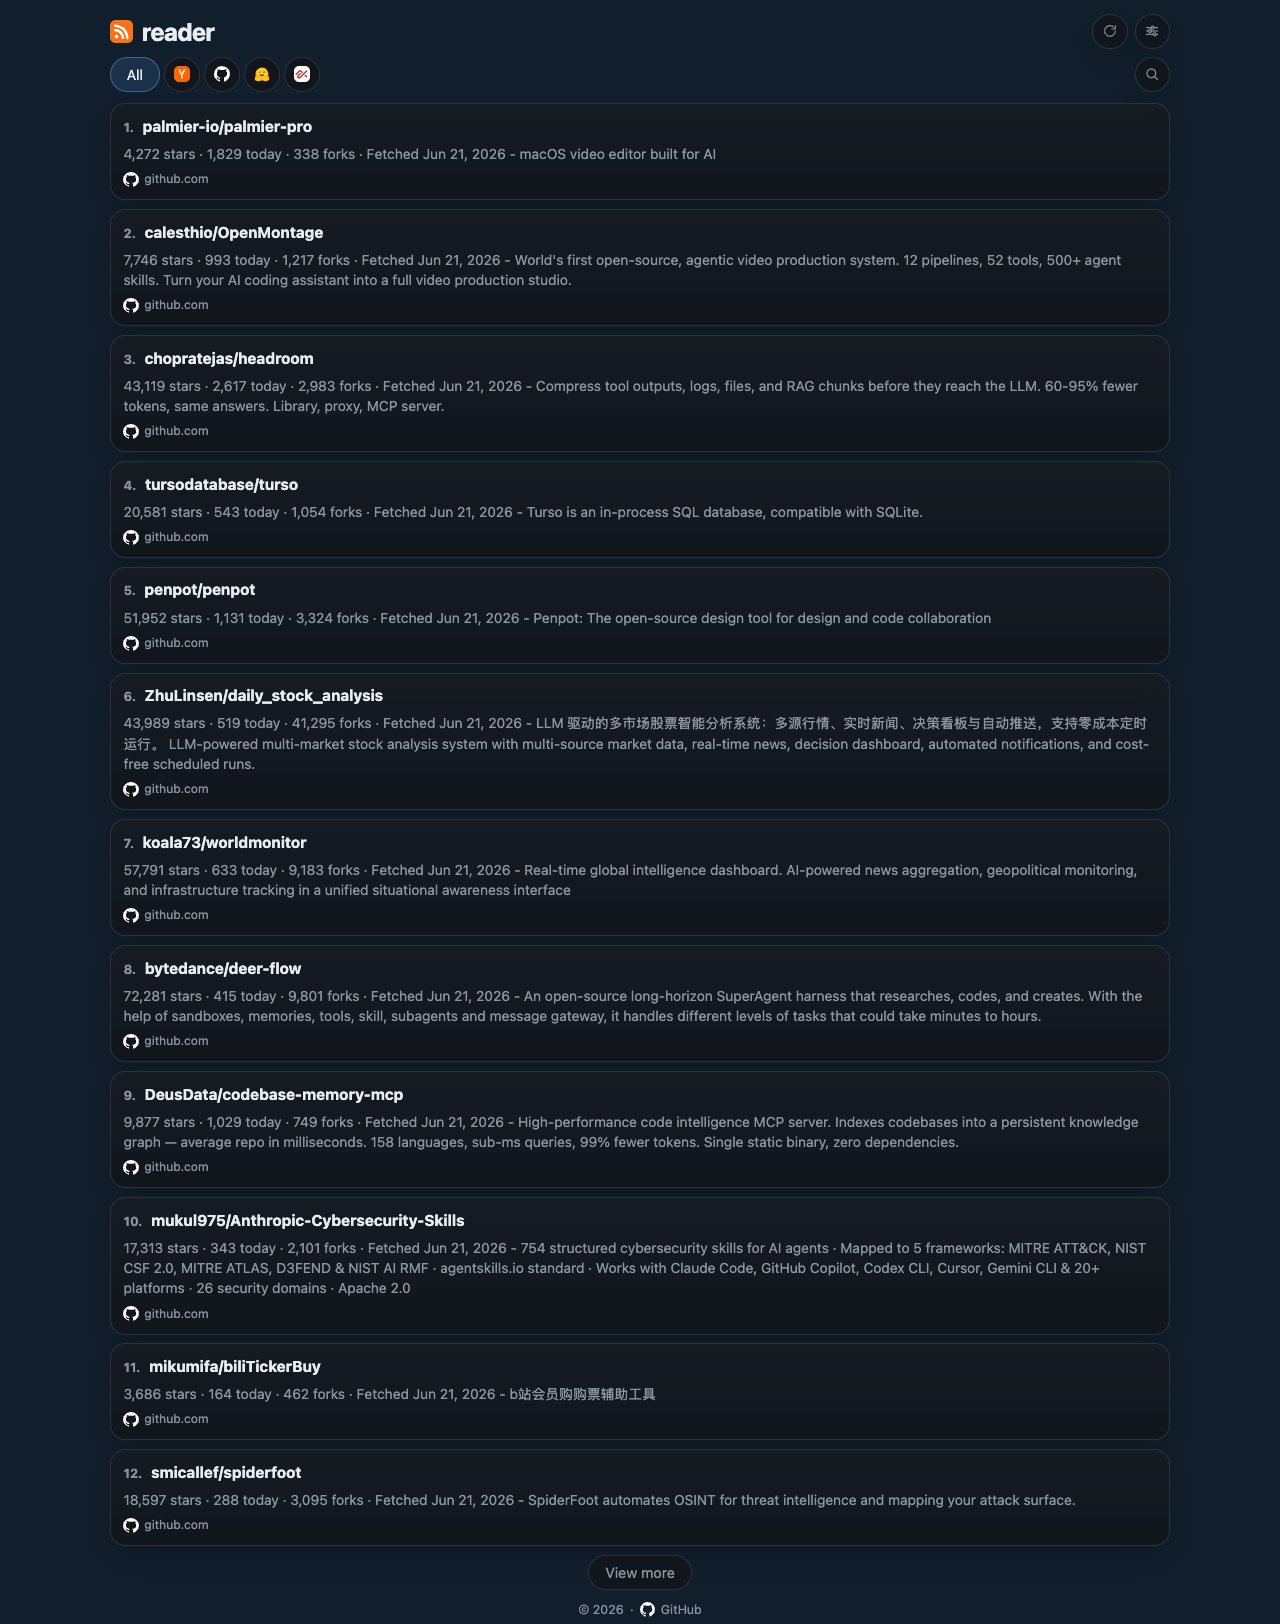
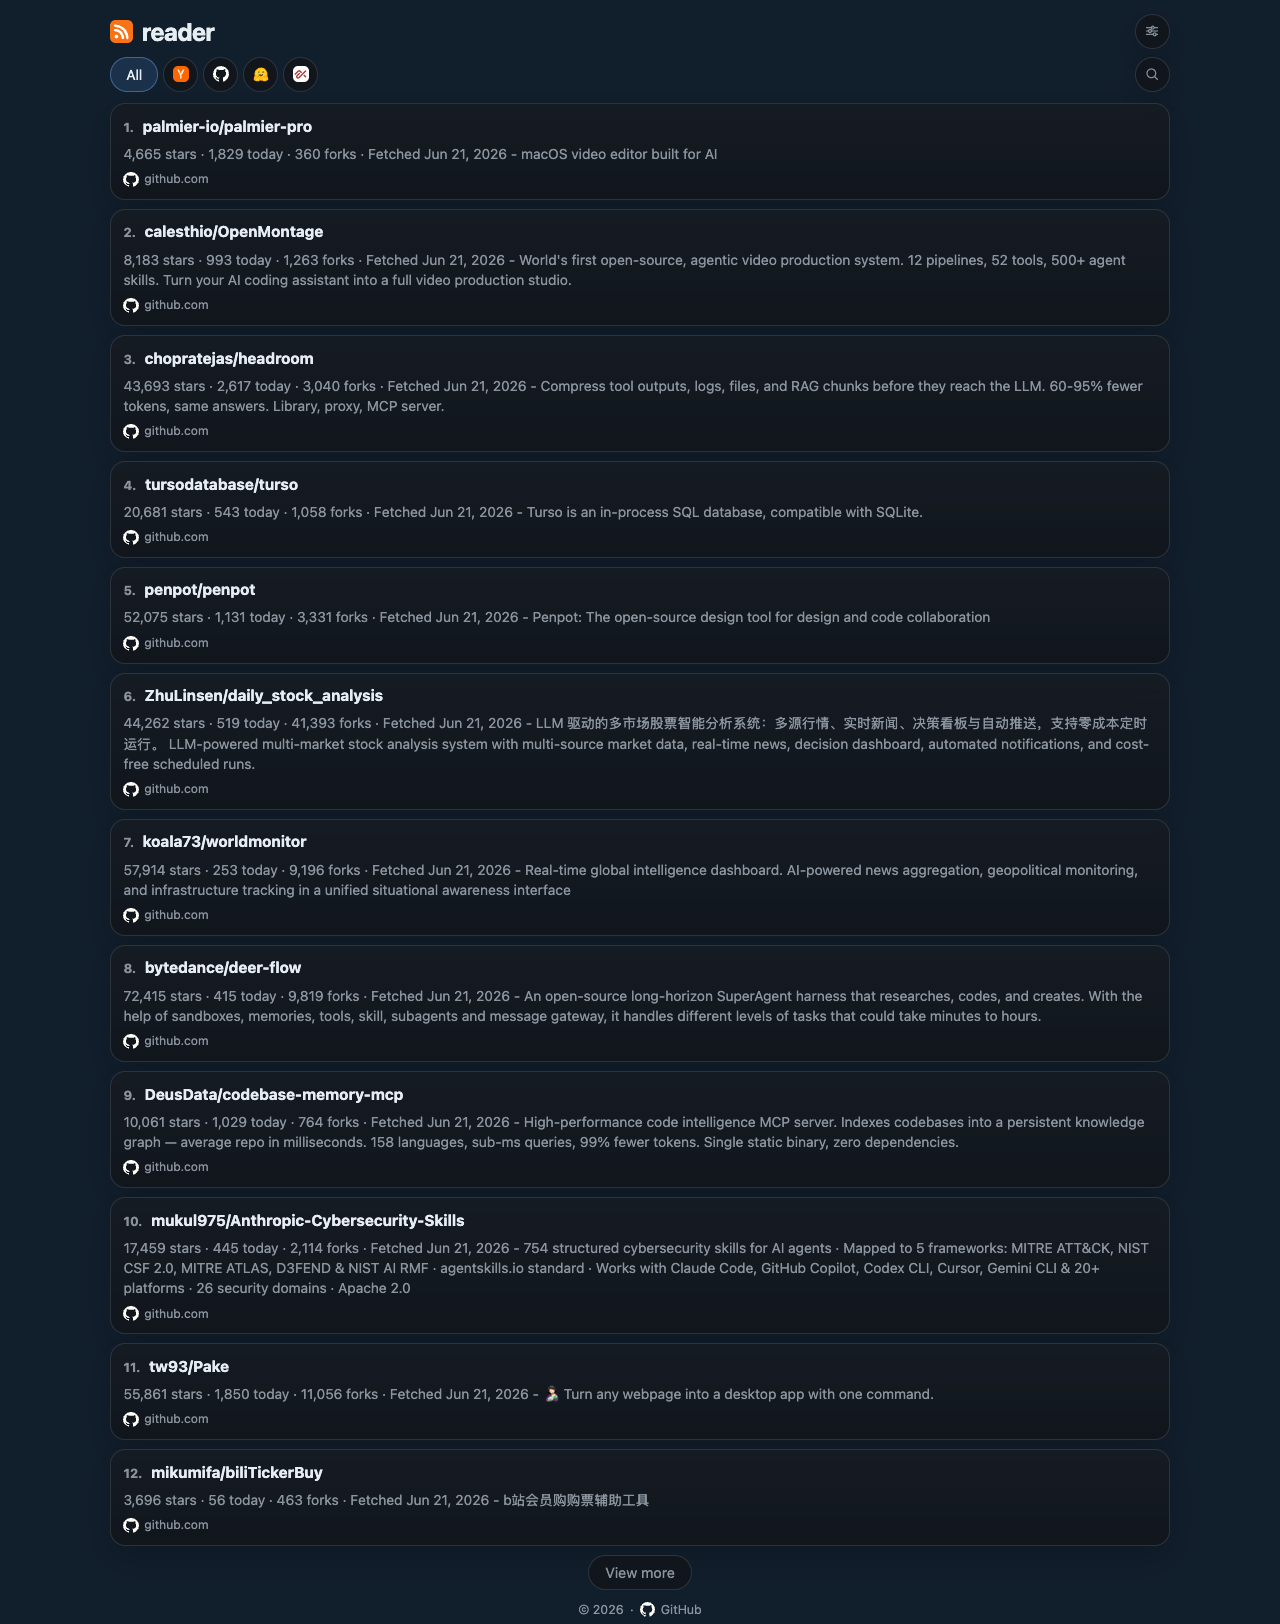
feat: refresh feeds hourly and remove header refresh

diff --git a/web/static/app.js b/web/static/app.js
@@ -44,7 +44,6 @@
   const searchForm = document.querySelector("[data-search-form]");
   const searchInput = document.querySelector("[data-search-input]");
   const searchSourceInput = document.querySelector("[data-search-source]");
-  const refreshButton = document.querySelector("[data-refresh-button]");
   const themeToggle = document.querySelector("[data-theme-toggle]");
   const toast = document.querySelector("[data-toast]");
   const pageSize = Number(cardsGrid?.dataset.pageSize || 12);
@@ -69,7 +68,6 @@
   let searchTimer = null;
   let ignoreNextEmptySearchInput = false;
   let requestSequence = 0;
-  let refreshInFlight = false;
   let feedLoading = false;
   let feedLoadingMode = "";
   let activeToastKind = "";
@@ -380,7 +378,7 @@
     const showButton = hasNext && loadedCount > 0;
     const loadingMore = feedLoading && feedLoadingMode === "append";
     viewMoreButton.hidden = !showButton;
-    viewMoreButton.disabled = !showButton || refreshInFlight || feedLoading;
+    viewMoreButton.disabled = !showButton || feedLoading;
     viewMoreButton.textContent = loadingMore ? "Loading…" : "View more";
   };
 
@@ -533,20 +531,6 @@
         theme === "dark" ? "Switch to light mode" : "Switch to dark mode",
       );
     }
-  };
-
-  const setRefreshButtonLoading = (active) => {
-    if (!refreshButton) return;
-    refreshButton.disabled = active;
-    refreshButton.classList.toggle("is-loading", active);
-    refreshButton.setAttribute(
-      "aria-label",
-      active ? "Refreshing feed" : "Refresh feed",
-    );
-    refreshButton.setAttribute(
-      "title",
-      active ? "Refreshing feed" : "Refresh feed",
-    );
   };
 
   const fetchItems = async ({
@@ -720,7 +704,7 @@
 
   async function refetchCurrentViewAfterReconnect() {
     syncConnectivityState();
-    if (!browserOnline || refreshInFlight || reconnectRefetchInFlight) {
+    if (!browserOnline || reconnectRefetchInFlight) {
       return false;
     }
     reconnectRefetchInFlight = true;
@@ -731,40 +715,6 @@
       return false;
     } finally {
       reconnectRefetchInFlight = false;
-    }
-  }
-
-  async function refreshFeedList() {
-    syncConnectivityState();
-    if (refreshInFlight) {
-      return false;
-    }
-    if (!browserOnline) {
-      return false;
-    }
-    refreshInFlight = true;
-    cancelPendingSearch();
-    setFeedLoading(true, { mode: "replace", message: "Refreshing feed…" });
-    setRefreshButtonLoading(true);
-    renderFeedBody();
-    try {
-      const response = await fetch("/api/refresh", { method: "POST" });
-      const payload = await response.json().catch(() => ({}));
-      if (!response.ok || !payload.ok) {
-        showToast("Refresh completed with errors", "error");
-        return false;
-      }
-      await refetchCurrentView({ loadingMessage: "Refreshing feed…" });
-      showToast("Feed refreshed", "success");
-      return true;
-    } catch (error) {
-      showToast("Refresh failed", "error");
-      return false;
-    } finally {
-      refreshInFlight = false;
-      setFeedLoading(false);
-      setRefreshButtonLoading(false);
-      renderFeedBody();
     }
   }
 
@@ -958,7 +908,7 @@
 
   if (viewMoreButton) {
     viewMoreButton.addEventListener("click", async () => {
-      if (feedLoading || refreshInFlight) return;
+      if (feedLoading) return;
       viewMoreButton.disabled = true;
       try {
         await fetchItems({
@@ -981,12 +931,6 @@
       const link = event.target.closest(".item-title a");
       if (!link) return;
       rememberVisitedLink(link.href);
-    });
-  }
-
-  if (refreshButton) {
-    refreshButton.addEventListener("click", async () => {
-      await refreshFeedList();
     });
   }
 
@@ -1030,7 +974,6 @@
   renderFilters();
   renderSearch();
   renderFeedBody();
-  setRefreshButtonLoading(false);
   renderConnectionIndicator();
 
   if (shouldBootstrapRefetch) {

diff --git a/web/templates/index.html b/web/templates/index.html
@@ -16,8 +16,8 @@
     <link rel="icon" href="/favicon.svg?v=8" sizes="any" type="image/svg+xml" />
     <link rel="shortcut icon" href="/favicon.svg?v=8" type="image/svg+xml" />
     <link rel="apple-touch-icon" href="/apple-touch-icon.png?v=8" />
-    <link rel="stylesheet" href="/static/style.css?v=37" />
-    <script src="/static/app.js?v=28" defer></script>
+    <link rel="stylesheet" href="/static/style.css?v=38" />
+    <script src="/static/app.js?v=29" defer></script>
   </head>
   <body>
     <header class="shell page-header">
@@ -34,12 +34,6 @@
               <path d="M4 4l16 16" fill="none" stroke="currentColor" stroke-linecap="round" stroke-width="1.9"/>
             </svg>
           </span>
-          <button class="icon-button refresh-button" type="button" data-refresh-button aria-label="Refresh feed" title="Refresh feed">
-            <svg class="theme-icon" viewBox="0 0 24 24" aria-hidden="true">
-              <path d="M20 12a8 8 0 1 1-2.34-5.66" fill="none" stroke="currentColor" stroke-linecap="round" stroke-linejoin="round" stroke-width="1.8"/>
-              <path d="M20 4v5h-5" fill="none" stroke="currentColor" stroke-linecap="round" stroke-linejoin="round" stroke-width="1.8"/>
-            </svg>
-          </button>
           <button class="icon-button config-toggle" type="button" data-source-config-open aria-label="Open reader settings" title="Open reader settings">
             <svg class="theme-icon" viewBox="0 0 24 24" aria-hidden="true">
               <path d="M4 7h8" fill="none" stroke="currentColor" stroke-linecap="round" stroke-width="1.8"/>

diff --git a/web/static/service-worker.js b/web/static/service-worker.js
@@ -1,9 +1,9 @@
-const SHELL_CACHE = 'reader-shell-v32';
+const SHELL_CACHE = 'reader-shell-v33';
 const ITEMS_CACHE = "reader-items-v22";
 const CORE_ASSETS = [
   "/",
-  '/static/style.css?v=37',
-  "/static/app.js?v=28",
+  '/static/style.css?v=38',
+  "/static/app.js?v=29",
   "/static/source-icons/hackernews.svg",
   "/static/source-icons/github.svg",
   "/static/source-icons/huggingface.svg",

diff --git a/web/static/style.css b/web/static/style.css
@@ -922,10 +922,6 @@ body.is-dialog-open {
   font-size: 0.9rem;
 }
 
-.refresh-button.is-loading .theme-icon {
-  animation: spin 0.8s linear infinite;
-}
-
 .view-more[hidden] {
   display: none;
 }

diff --git a/internal/service/service_test.go b/internal/service/service_test.go
@@ -199,3 +199,21 @@ func TestBuildCardsWithoutStatsStillCarriesDateParts(t *testing.T) {
 		t.Fatalf("unexpected brief: %q", *cards[0].Brief)
 	}
 }
+
+func TestNextScheduledRefreshHourlyBoundary(t *testing.T) {
+	location := time.FixedZone("UTC+7", 7*60*60)
+	now := time.Date(2026, time.June, 21, 10, 14, 35, 0, location)
+	want := time.Date(2026, time.June, 21, 11, 0, 0, 0, location)
+	if got := nextScheduledRefresh(now, 1); !got.Equal(want) {
+		t.Fatalf("nextScheduledRefresh(%v, 1) = %v, want %v", now, got, want)
+	}
+}
+
+func TestNextScheduledRefreshRespectsConfiguredInterval(t *testing.T) {
+	location := time.FixedZone("UTC+7", 7*60*60)
+	now := time.Date(2026, time.June, 21, 10, 14, 35, 0, location)
+	want := time.Date(2026, time.June, 21, 12, 0, 0, 0, location)
+	if got := nextScheduledRefresh(now, 3); !got.Equal(want) {
+		t.Fatalf("nextScheduledRefresh(%v, 3) = %v, want %v", now, got, want)
+	}
+}

diff --git a/internal/service/service.go b/internal/service/service.go
@@ -38,7 +38,7 @@ func (s *FeedService) StartScheduler(ctx context.Context) {
 		location := loadScheduleLocation()
 		for {
 			now := time.Now().In(location)
-			next := nextScheduledRefresh(now)
+			next := nextScheduledRefresh(now, s.cfg.RefreshIntervalHours)
 			wait := time.Until(next)
 			if wait < 0 {
 				wait = time.Second
@@ -436,15 +436,14 @@ func loadScheduleLocation() *time.Location {
 	return time.FixedZone("UTC+7", 7*60*60)
 }
 
-func nextScheduledRefresh(now time.Time) time.Time {
+func nextScheduledRefresh(now time.Time, intervalHours int) time.Time {
+	if intervalHours < 1 {
+		intervalHours = 1
+	}
 	location := now.Location()
 	base := time.Date(now.Year(), now.Month(), now.Day(), now.Hour(), 0, 0, 0, location)
-	nextHour := ((now.Hour() / 3) + 1) * 3
-	if nextHour >= 24 {
-		base = time.Date(now.Year(), now.Month(), now.Day()+1, 0, 0, 0, 0, location)
-		nextHour = 0
-	}
-	return time.Date(base.Year(), base.Month(), base.Day(), nextHour, 0, 0, 0, location)
+	hoursUntilNext := intervalHours - (now.Hour() % intervalHours)
+	return base.Add(time.Duration(hoursUntilNext) * time.Hour)
 }
 
 func fmtSprintf(format string, values ...any) string {

diff --git a/internal/config/config.go b/internal/config/config.go
@@ -20,7 +20,7 @@ type Config struct {
 func Load() (Config, error) {
 	cfg := Config{
 		DBPath:               envOrDefault("FEEDREADER_DB_PATH", "./data/feedreader.db"),
-		RefreshIntervalHours: envInt("FEEDREADER_REFRESH_INTERVAL_HOURS", 3),
+		RefreshIntervalHours: envInt("FEEDREADER_REFRESH_INTERVAL_HOURS", 1),
 		ItemsPerSource:       envInt("FEEDREADER_ITEMS_PER_SOURCE", 20),
 		RequestTimeoutSec:    envFloat("FEEDREADER_REQUEST_TIMEOUT_SECONDS", 20),
 		UserAgent:            envOrDefault("FEEDREADER_USER_AGENT", "feedreader/0.1"),

diff --git a/README.md b/README.md
@@ -47,7 +47,6 @@
   - RSS-based app icon/favicon branding
   - dark/light mode
   - inline expanding search
-  - refresh control
   - reader settings dialog for theme, density, and source visibility
 - **Configurable visible sources** stored in `localStorage`
   - choose which source buttons are shown
@@ -56,8 +55,7 @@
 - **Debounced client-side search UX** backed by the server API
 - **Explicit empty states** for no-result source filters and searches
 - **Connectivity indicator** that shows a no-wifi icon while offline and silently refreshes the current view when the browser reconnects
-- **Scheduled refresh** every 3 hours on wall-clock boundaries in UTC+7
-- **Manual refresh** from the UI updates the current feed list in place without a full page reload and shows a toast-based loading state while refresh + refetch are running
+- **Scheduled refresh** every 1 hour on wall-clock boundaries in UTC+7
 - **Persisted visited-link dimming** for feed card titles across reload/reopen using local storage
 - **PWA-ready assets and offline caching** including manifest, service worker, touch icons, cached shell assets, and cached `/api/items` responses for previously visited views
 - **Reconnect list refresh** re-fetches the current view from backend stored items only; it does **not** refresh upstream sources
@@ -112,7 +110,7 @@ At a high level:
 1. source adapters fetch upstream content
 2. items are upserted into SQLite by `(source, external_id)`
 3. the web app reads stored items ordered by article date descending
-4. the scheduler refreshes on 3-hour clock boundaries
+4. the scheduler refreshes on 1-hour clock boundaries by default
 
 Key properties:
 
@@ -201,7 +199,7 @@ Dockerized Go toolchain:
 docker run --rm -v "$PWD":/src -w /src golang:1.24-bookworm go test ./...
 ```
 
-### Manual refresh
+### On-demand refresh
 
 Host-native:
 
@@ -246,7 +244,7 @@ Environment variables:
 | Variable                             |                Default | Description                                                    |
 | ------------------------------------ | ---------------------: | -------------------------------------------------------------- |
 | `FEEDREADER_DB_PATH`                 | `./data/feedreader.db` | SQLite database path                                           |
-| `FEEDREADER_REFRESH_INTERVAL_HOURS`  |                    `3` | Refresh interval setting used by the scheduler                 |
+| `FEEDREADER_REFRESH_INTERVAL_HOURS`  |                    `1` | Refresh interval setting used by the scheduler                 |
 | `FEEDREADER_ITEMS_PER_SOURCE`        |                   `20` | Per-source item count used in source dashboard/health contexts |
 | `FEEDREADER_REQUEST_TIMEOUT_SECONDS` |                   `20` | Upstream request timeout                                       |
 | `FEEDREADER_USER_AGENT`              |       `feedreader/0.1` | Outbound fetch user agent                                      |
@@ -262,10 +260,10 @@ The scheduler runs **inside the app process**.
 Behavior:
 
 - aligned to **UTC+7** (`Asia/Ho_Chi_Minh`)
-- runs on the next **3-hour wall-clock boundary**
+- runs on the next **N-hour wall-clock boundary** based on `FEEDREADER_REFRESH_INTERVAL_HOURS` (default: **1 hour**)
 - does **not** perform an immediate refresh just because the container starts
 
-Manual refresh is also available through the UI and CLI.
+On-demand refresh is available through the CLI and `POST /api/refresh`.
 
 ---
 
@@ -286,6 +284,10 @@ Query params:
 - `q` — optional case-insensitive search query across title, summary, author, URL host/path, and stored metadata
 - `limit` — page size
 - `offset` — pagination offset
+
+### `POST /api/refresh`
+
+Triggers an immediate upstream refresh across all sources and returns per-source outcomes.
 
 ---
 
@@ -328,7 +330,7 @@ Presentation-layer note:
 
 ### Loading and empty states
 
-- first-load bootstrap queries, source filter changes, searches, `View more`, and manual refresh all show an explicit toast-based loading state
+- first-load bootstrap queries, source filter changes, searches, and `View more` all show an explicit toast-based loading state
 - source-filter changes use the generic loading toast text `Loading feed…`
 - source-filter and search requests that return zero items replace the list with an empty-state message instead of leaving stale cards on screen
 - `View more` disables itself while an append request is in flight and hides itself when the current result set has no further page
@@ -337,10 +339,10 @@ Presentation-layer note:
 
 - the app shell and previously fetched `GET /api/items` views are cached by the service worker for offline reuse
 - this offline/PWA behavior requires a secure-context origin where service workers are available (for example `localhost` or HTTPS); plain HTTP network IP origins such as `http://100.94.224.102:9[...]
-- when the browser goes offline, a no-wifi indicator appears before the refresh button instead of showing connectivity toasts
+- when the browser goes offline, a no-wifi indicator appears in the header action row instead of showing connectivity toasts
 - if an offline view has no cached `/api/items` response yet, the list is replaced with `Offline and no cached items are available for this view yet.`
 - when the browser comes back online, the no-wifi indicator disappears and the current view is re-fetched silently from `/api/items`
-- reconnect refreshes backend-stored items only; the only UI path that calls `POST /api/refresh` remains the manual refresh button
+- reconnect refreshes backend-stored items only; it does not trigger upstream source refetches
 
 ### Reader settings dialog
 